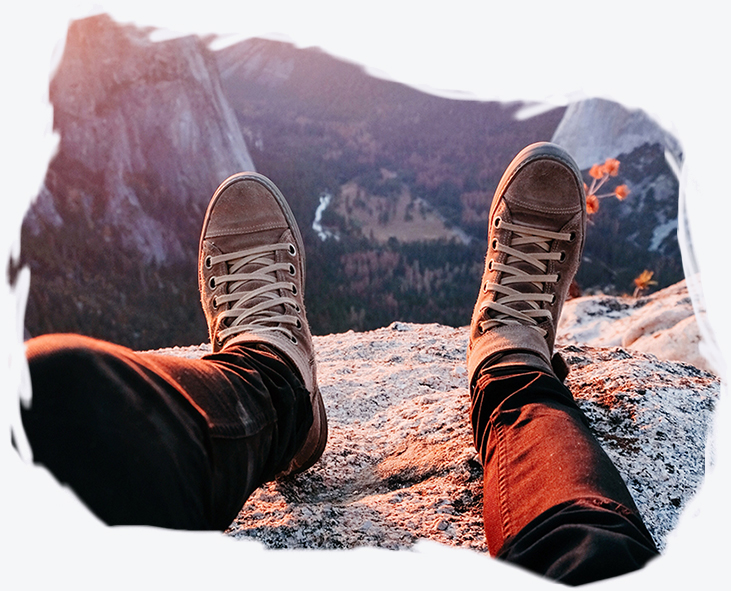
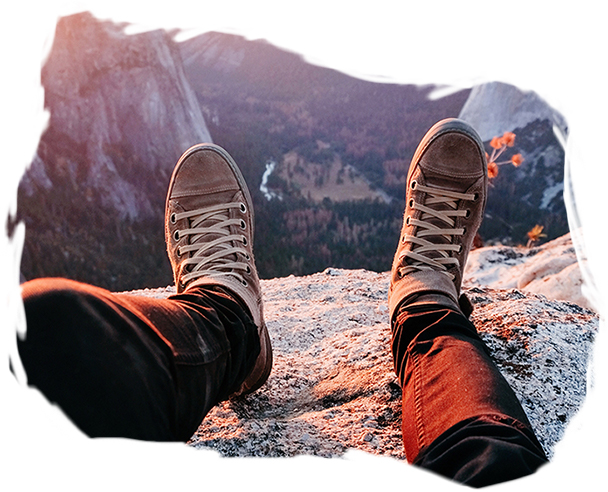
chapterOne_finish_and_start_chapterTwo

diff --git a/index.html b/index.html
@@ -34,10 +34,10 @@
     		<div class="discover"> 
     			<div class="discoverImg"> <!-- img -->
     				<h3 class="textDiscover">Discover the culture</h3>
-    				<p class="textDiscover"> 
-    					Lorem ipsum dolor sit amet, conseconsectetur adipisicing elit, sed do eiusmod tempor incididunt ut labore et dolore magna aliqua. Ut enim ad minim veniam, quis nostrud exercitation ullamco laboris nisi ut aliquip ex ea commodo consequat. <br><br>
+    				<p class="textDiscoverText"> 
+    					Lorem ipsum dolor sit amet, conseconsectetur adipisicing elit, sed do <br> eiusmod tempor incididunt ut labore et dolore magna aliqua. Ut <br> enim ad minim veniam, quis nostrud exercitation ullamco <br> laboris nisi ut aliquip ex ea commodo consequat. <br><br>
 	
-		    			Duis aute irure dolor in reprehenderit in voluptate velit esse cillum dolore eu fugiat nulla pariatur. Excepteur sint occaecat cupidatat non proident, sunt in culpa qui officia deserunt 	mollit anim id est laborum. Sed ut perspiciatis unde omnis iste natus error sit voluptatem accusantium doloremque.
+		    			Duis aute irure dolor in reprehenderit in voluptate velit esse <br> cillum dolore eu fugiat nulla pariatur. Excepteur sint occaecat <br> cupidatat non proident, sunt in culpa qui officia deserunt mollit <br> anim id est laborum. Sed ut perspiciatis unde omnis iste natus <br> error sit voluptatem accusantium doloremque.
     				</p>
     			</div>
     		</div>	
@@ -45,29 +45,49 @@
     	<div> <!-- Make new friends -->
     		<div class="makeFriends">
     			<div class="makeFriendsImg"> <!-- img -->
-    				<h3 class="textMakeFriends">Discover the culture</h3>
-    				<p class="textMakeFriends"> 
-    					Lorem ipsum dolor sit amet, conseconsectetur adipisicing elit, sed do eiusmod tempor incididunt ut labore et dolore magna aliqua. Ut enim ad minim veniam, quis nostrud exercitation ullamco laboris nisi ut aliquip ex ea commodo consequat. <br><br>
-		
-			    		Duis aute irure dolor in reprehenderit in voluptate velit esse cillum dolore eu fugiat nulla pariatur. Excepteur sint occaecat cupidatat non proident, sunt in culpa qui officia deserunt 	mollit anim id est laborum. Sed ut perspiciatis unde omnis iste natus error sit voluptatem accusantium doloremque.
+    				<h3 class="textMakeFriends">Make new friends</h3>
+    				<p class="textMakeFriendsText"> 
+    					Lorem ipsum dolor sit amet, conseconsectetur adipisicing elit, sed do <br> eiusmod tempor incididunt ut labore et dolore magna aliqua. Ut <br> enim ad minim veniam, quis nostrud exercitation ullamco <br> laboris nisi ut aliquip ex ea commodo consequat. <br><br>
+	
+		    			Duis aute irure dolor in reprehenderit in voluptate velit esse <br> cillum dolore eu fugiat nulla pariatur. Excepteur sint occaecat <br> cupidatat non proident, sunt in culpa qui officia deserunt mollit <br> anim id est laborum. Sed ut perspiciatis unde omnis iste natus <br> error sit voluptatem accusantium doloremque.
     				</p>
     			</div>
     		</div>
     	</div>
     </section>
     <section> <!-- Who will love the trip -->
-    	<div>
+    	<p class="tripHeader">
+		Who will love the trip
+		</p>
+    	<div class="loveTrip">
+    				
     		<div> <!-- Businesmen -->
-    			
+    			<p><img  class="buttonLoveTripIcon" src="https://png.icons8.com/business-filled/ios7/40/000000"></p>
+    			<h8 class="loveTripHeader">Businesmen</h8><br>
+    			<p class="loveTripText">
+    				Lorem ipsum dolor sit amet, <br> conseconsectetur adipisicing elit, sed do <br> eiusmod tempor incididunt ut labore <br> et dolore magna aliqua.
+    			</p>
     		</div>
     		<div> <!-- Photographers -->
-    			
+   				<p><img class="buttonLoveTripIcon" src="https://png.icons8.com/camera/win8/40/000000"></p>
+    			<h8 class="loveTripHeader">Photographers</h8><br>
+    			<p class="loveTripText">
+    				Lorem ipsum dolor sit amet, <br> conseconsectetur adipisicing elit, sed do <br> eiusmod tempor incididunt ut labore <br> et dolore magna aliqua.
+    			</p>
     		</div>
     		<div> <!-- Students -->
-    			
+    			<p><img class="buttonLoveTripIcon" src="https://png.icons8.com/graduation-cap-filled/ios7/40/000000"></p>
+				<h8 class="loveTripHeader">Students</h8><br>
+    			<p class="loveTripText">
+    				Lorem ipsum dolor sit amet, <br> conseconsectetur adipisicing elit, sed do <br> eiusmod tempor incididunt ut labore <br> et dolore magna aliqua.
+    			</p>
     		</div>
     		<div> <!-- freelancers -->
-    			
+    			<p><img class="buttonLoveTripIcon" src="https://png.icons8.com/ghost-filed/win8/40/000000"></p>
+    			<h8 class="loveTripHeader">Freelancers</h8><br>
+    			<p class="loveTripText">
+    				Lorem ipsum dolor sit amet, <br> conseconsectetur adipisicing elit, sed do <br> eiusmod tempor incididunt ut labore <br> et dolore magna aliqua.
+    			</p>
     		</div>
     	</div>
     </section>

diff --git a/scss/_typography.scss b/scss/_typography.scss
@@ -16,7 +16,7 @@ a {
     	text-decoration: none;
     	color: white;
     	border-bottom: 0.1rem solid white;    	
-  }
+  	}
 }
 
 span {
@@ -51,11 +51,60 @@ span {
 	transform-origin: bottom center;
 }
 
-
 .textDiscover {
-	float: right;
-	margin-left: 66rem;
-	margin-right: 23rem;
+	margin-left: 40.5rem;
+	padding-top: 3.5rem;
+	font-family: "Ubuntu";
+	font-weight: bold;
+  	color: rgb(37, 45, 43);
+}
+
+.textDiscoverText {
+	margin-left: 40.5rem;
+	margin-right: 3rem;
 	font-family: "Ubuntu";
   	color: rgb(37, 45, 43);
+}
+
+.makeFriends {
+	margin-top: -11rem;
+}
+
+.textMakeFriends {
+	padding-top: 5rem;
+	margin-left: -32rem;
+	font-family: "Ubuntu";
+	font-weight: bold;
+  	color: rgb(37, 45, 43);
+}
+
+.textMakeFriendsText {
+	margin-left: -32rem;
+	font-family: "Ubuntu";
+  	color: rgb(37, 45, 43);
+}
+
+.tripHeader {
+	text-align: center;
+	font-weight: bold;
+	font-size: 2rem;
+	margin-bottom: 4rem
+}
+
+.loveTrip {
+	margin-left: 3rem; 
+	display: flex;
+	text-align: center;
+	font-family: "Ubuntu";
+  	color: rgb(37, 45, 43);
+}
+
+.loveTripHeader {
+	font-weight: bold;
+	margin-left: 3rem; 
+}
+
+.loveTripText {
+	margin-top: 1rem;
+	margin-left: 3rem; 	
 }

diff --git a/scss/pages/home.scss b/scss/pages/home.scss
@@ -7,16 +7,17 @@
 .headerImg {
 	height: 63rem;
 	background: url("../../img/headerImg.jpg") no-repeat center center ;
-	//background-size: cover;
 }
 
 .discoverImg {
+	margin-left: 8.5rem;
 	height: 36rem;
 	background: url("../../img/aboutTripImgOne.jpg") no-repeat;
 	background-size: 30rem;
 }
 
 .makeFriendsImg {
+	margin-left: 42.5rem;
 	height: 32rem;
 	background: url("../../img/aboutTirpImgTwo.jpg") no-repeat;
 	background-size: 30rem

diff --git a/scss/_buttons.scss b/scss/_buttons.scss
@@ -33,3 +33,16 @@
 
   }
 }
+
+.buttonLoveTripIcon {
+	margin-left: 3rem;
+    border: 1.5rem solid yellow;
+    background: yellow;
+    border-radius: 1rem;
+    margin-bottom: 2rem;
+
+    &:hover {
+		border: 1.5rem solid white;
+		background: none;
+	}
+}

diff --git a/scss/_helpers.scss b/scss/_helpers.scss
@@ -11,7 +11,7 @@ ul > li {
 	margin-top: 15rem; 
 }
 
- .footerImg .test {
+.footerImg .test {
 	//color: white;
 	text-alight: center;
 	margin-top: 10rem;
